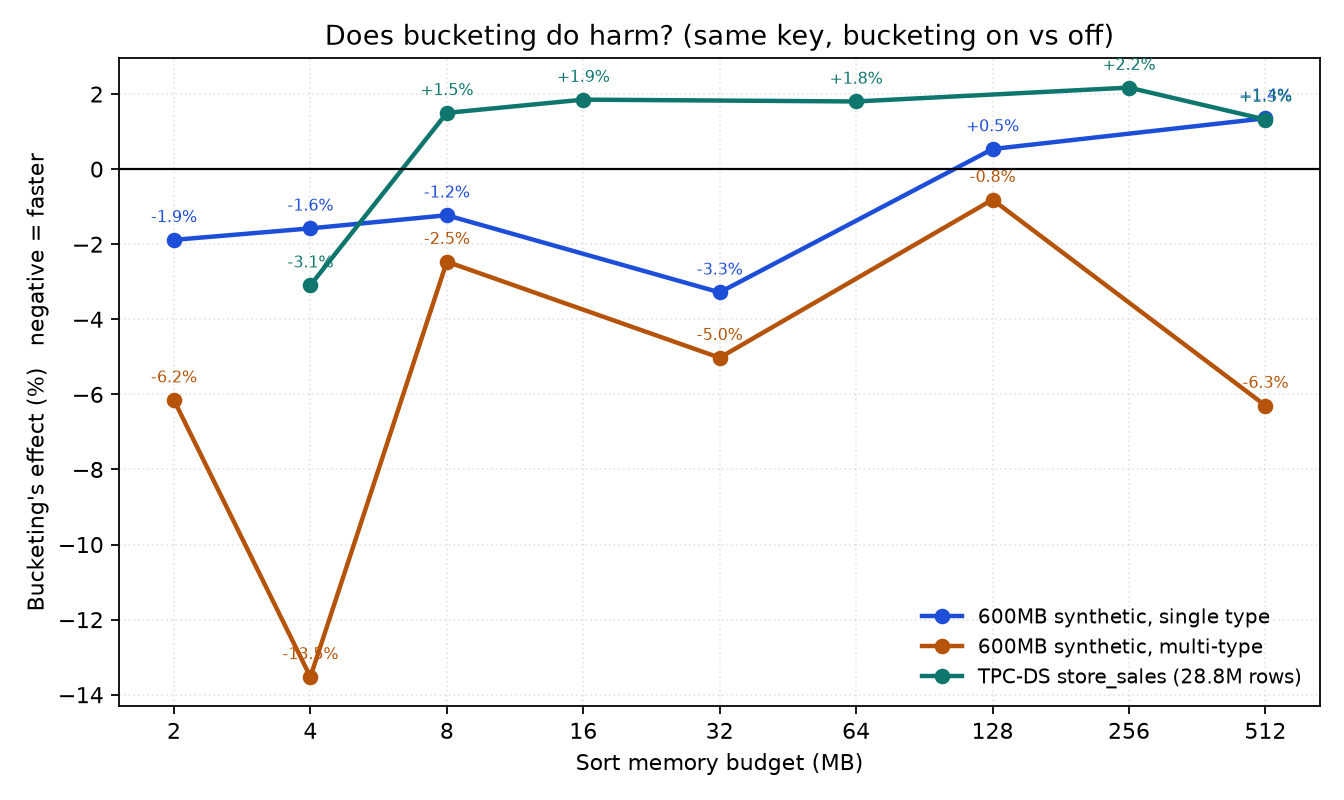
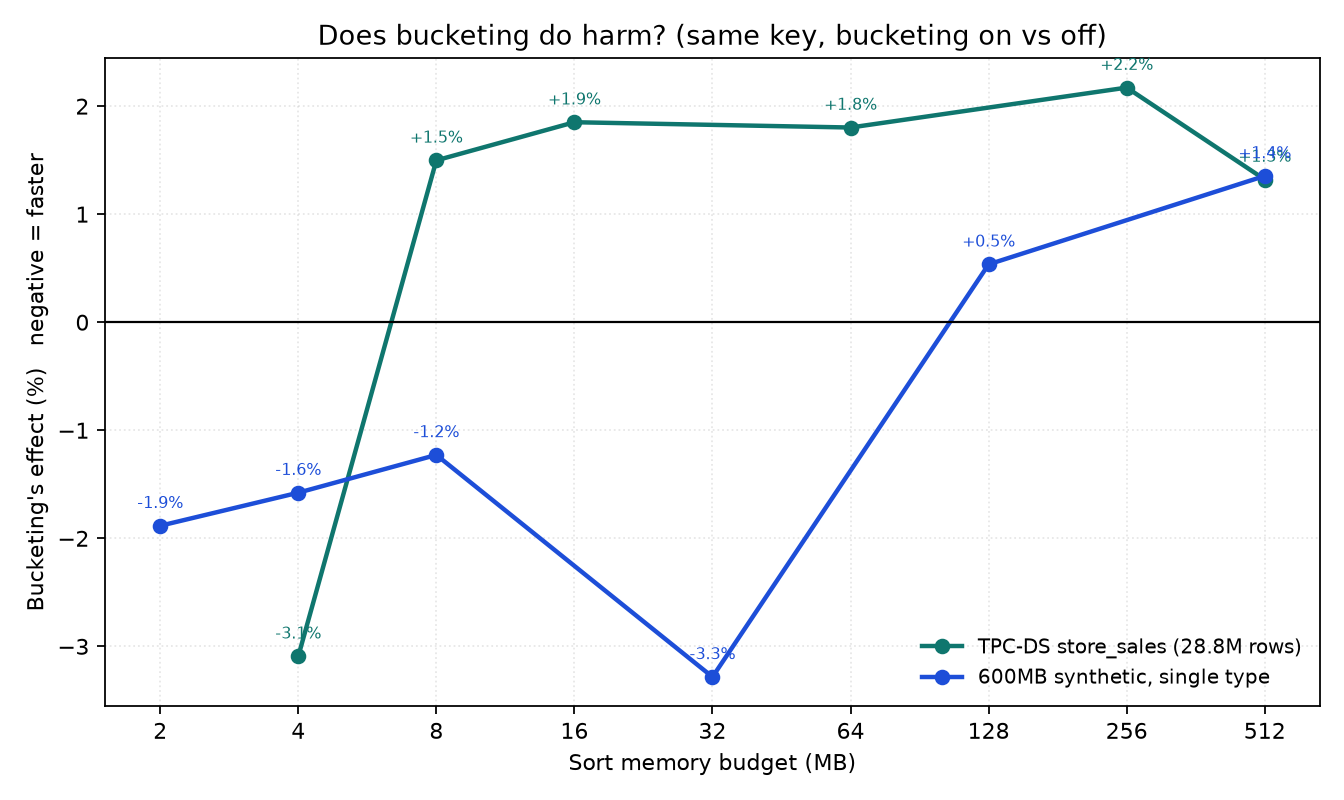
corrected reclaim isolates merge pass

diff --git a/experiments/OVERNIGHT_RUN.md b/experiments/OVERNIGHT_RUN.md
@@ -160,3 +160,27 @@ much memory a sort should get, why more is wasted, and why giving it back is fre
 above the threshold), bucketing's multi-type "harm" reversing into a benefit, and the reclaim cost
 splitting cleanly by threshold instead of looking uniformly free.
 
+## Reclaim, corrected (2026-09-03 19:42) — supersedes the earlier reclaim numbers
+
+The first attempt mislabelled its arms: "below threshold" reclaimed 8MB->4MB on a dataset whose
+threshold is 3.3MB, so no merge pass was ever added. Redone with budgets that straddle the
+threshold, and with a `staticlo` arm that separates two effects the first run conflated.
+
+| dataset | case | start -> post | static@start | static@post | reclaimed |
+|---|---|---|---|---|---|
+| 600MB | **crosses** | 4MB -> 2MB | 3.74s | 4.17s | 4.34s |
+| 600MB | stays | 64MB -> 32MB | 3.88s | 3.59s | 3.75s |
+| TPC-DS | **crosses** | 8MB -> 4MB | 17.38s | 19.04s | 17.82s |
+| TPC-DS | stays | 128MB -> 64MB | 17.63s | 17.45s | 17.47s |
+
+- **Ending up at a lower budget**: +11.5% / +9.5% when it CROSSES the threshold; -7.5% / -1.0% when
+  it does not. The merge pass, isolated.
+- **The reclaim machinery itself**: +4.2% / +4.4% (600MB), +0.1% / -6.4% (TPC-DS).
+- **Unpredicted**: reclaiming 8MB->4MB (17.82s) BEATS running the whole query at 4MB (19.04s) by
+  6.4% -- early work uses the larger budget before it is surrendered. A query that gives memory back
+  partway beats one that never had it, which argues for adaptivity over conservative static sizing.
+
+**Statement:** surrendering memory is free while the sort stays above its single-pass threshold;
+below it the sort pays for one extra merge pass (+9.5-11.5%) but still less than starting small; the
+machinery adds 0-4%.
+
